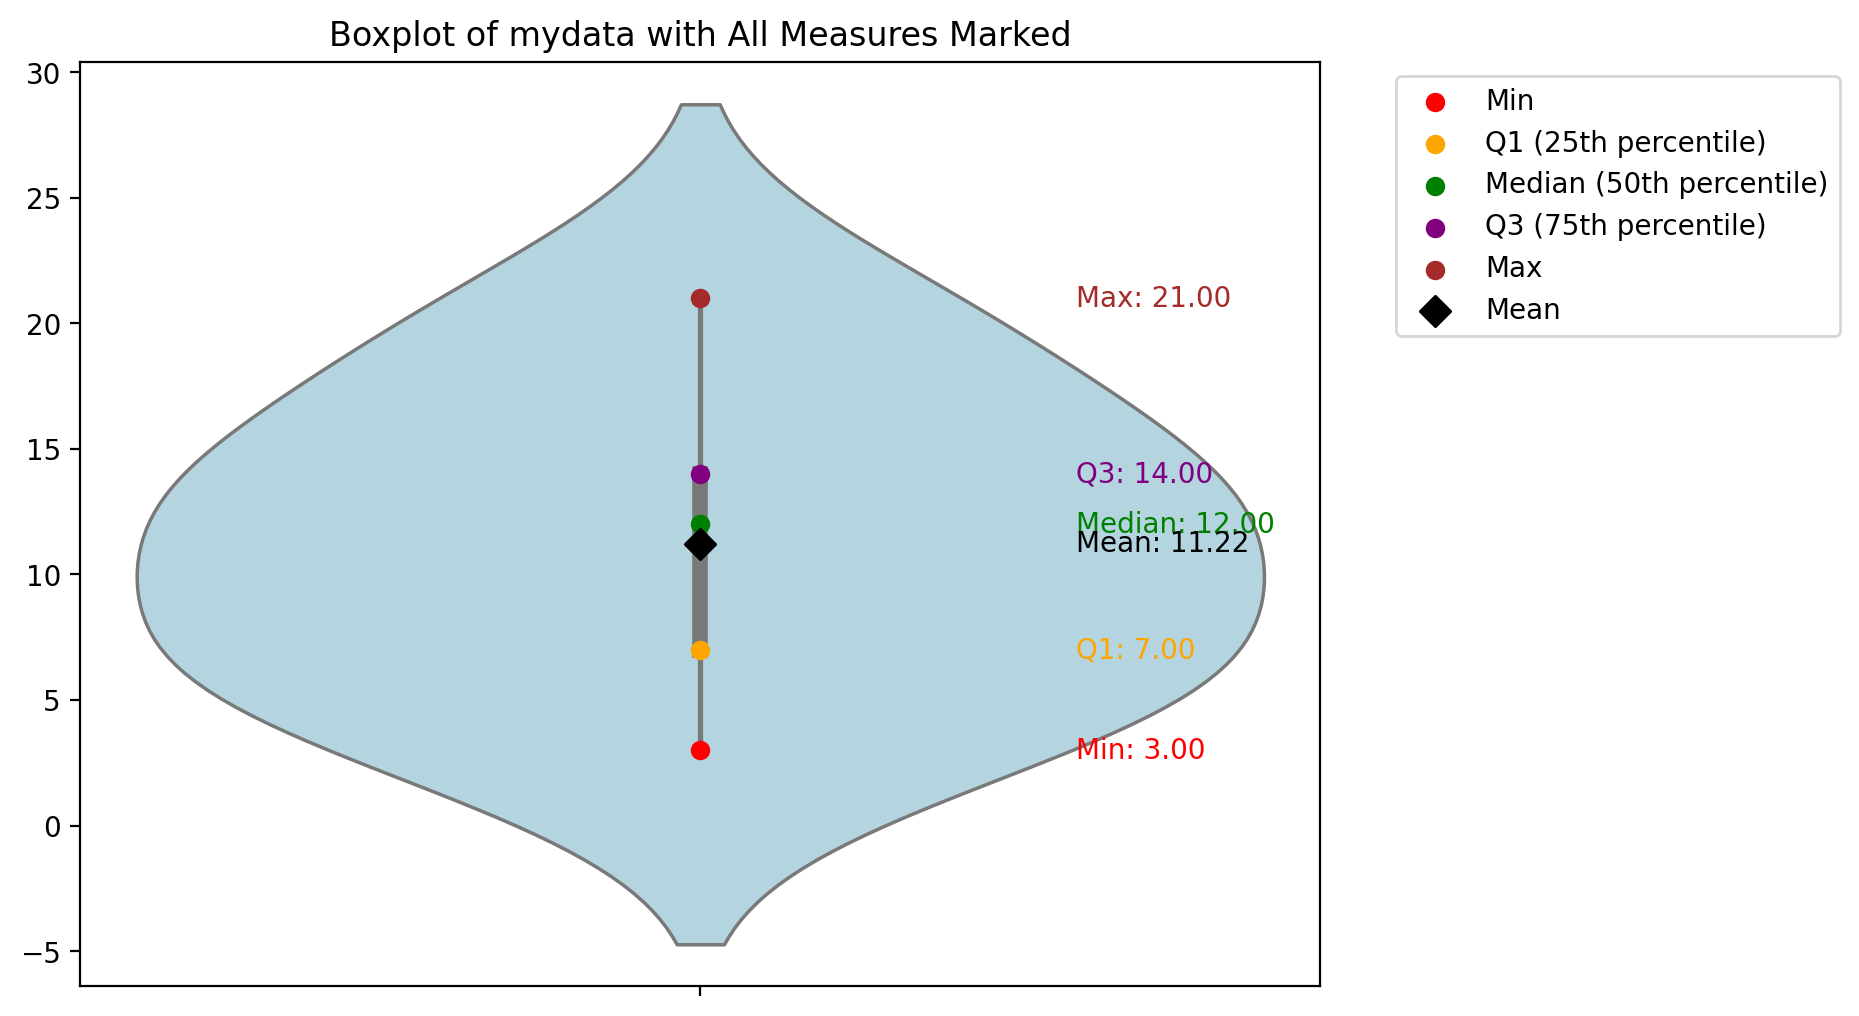
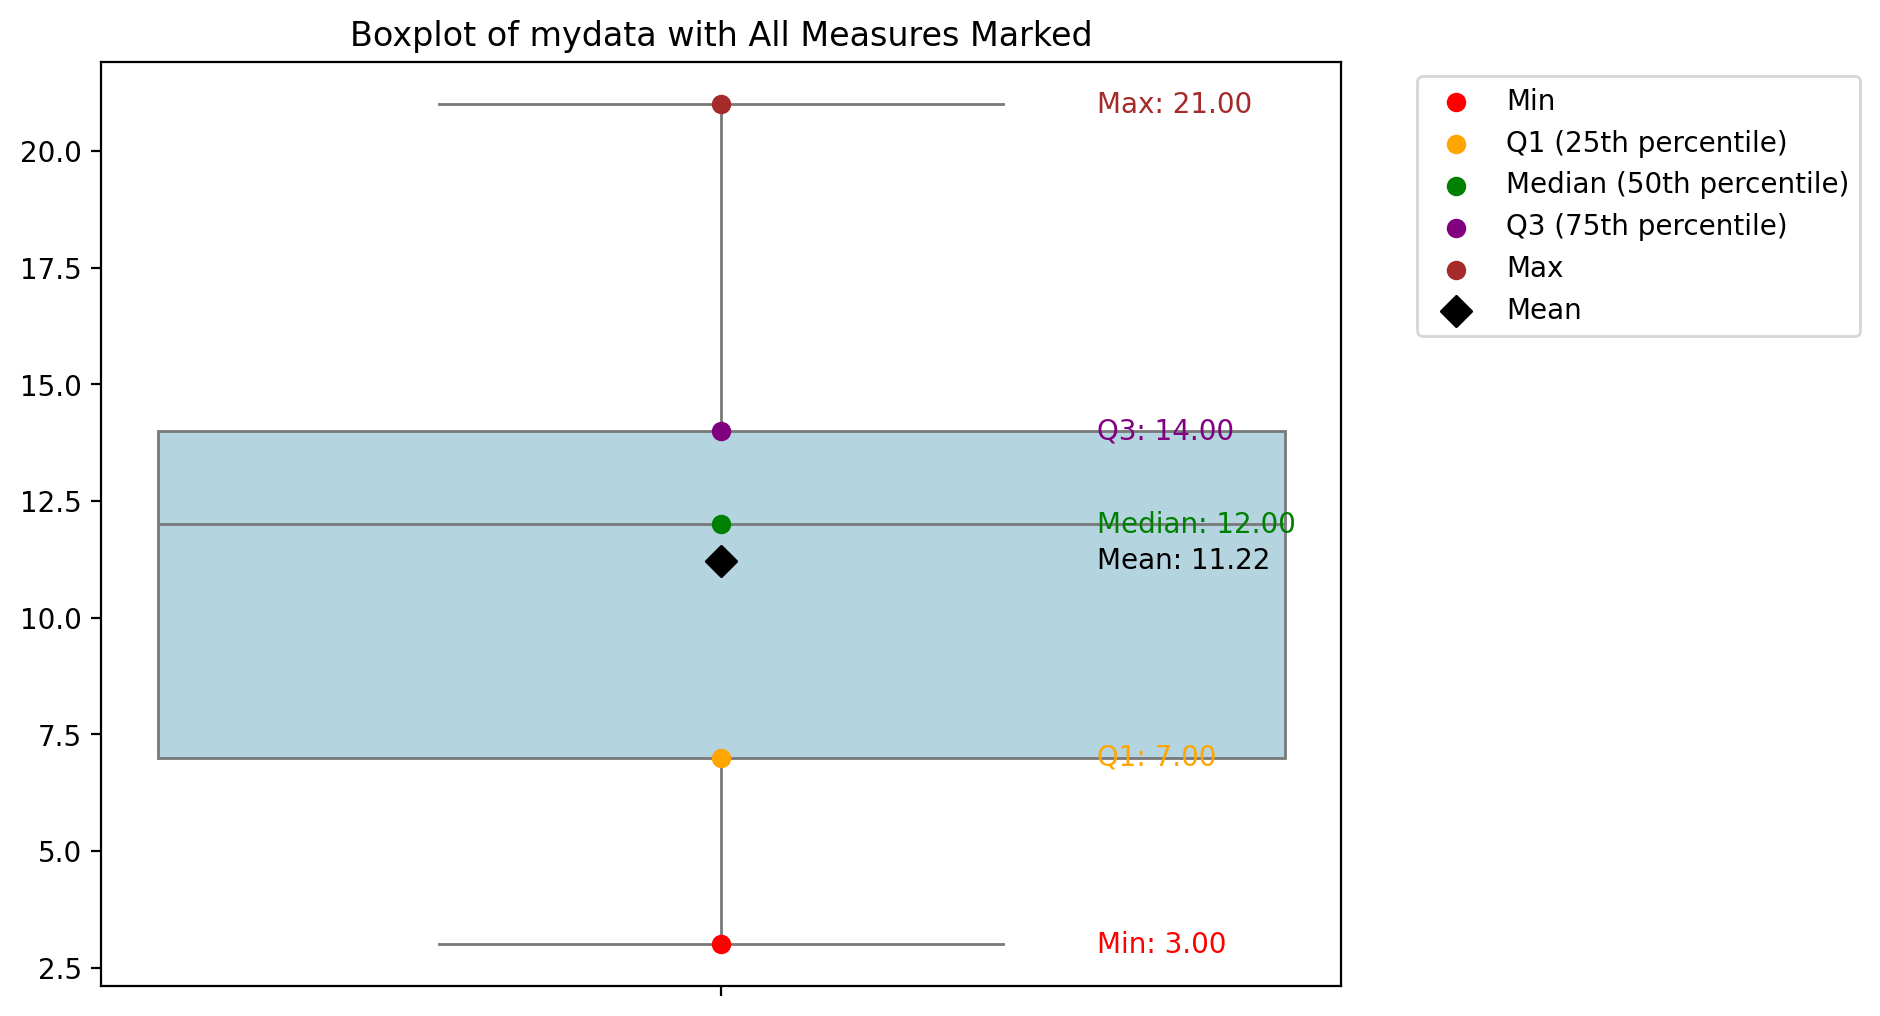
new report

diff --git a/Task4/Report4.md b/Task4/Report4.md
@@ -786,7 +786,7 @@ print(f"P95 (95%): {p95}")
 ```python
 # Create boxplot
 fig, ax = plt.subplots(figsize=(8, 6))
-sns.violinplot(data=mydata, ax=ax, color='lightblue', width=0.3)
+sns.boxplot(data=mydata, ax=ax, color='lightblue', width=0.3)
 
 # Calculate statistics
 minimum = np.min(mydata)
@@ -828,6 +828,46 @@ Try to change the boxplot into the violin plot (or add it).
 
 Looking at the aforementioned quantile results and the box plot, try to interpret these measures. 
 
+
+```python
+# Create violin plot
+fig, ax = plt.subplots(figsize=(8, 6))
+sns.violinplot(data=mydata, ax=ax, color='lightblue', width=0.3)
+
+# Calculate statistics
+minimum = np.min(mydata)
+q1 = np.percentile(mydata, 25)
+median = np.median(mydata)
+q3 = np.percentile(mydata, 75)
+maximum = np.max(mydata)
+mean = np.mean(mydata)
+
+ax.scatter(0, minimum, color='red', label='Min', zorder=5)
+ax.scatter(0, q1, color='orange', label='Q1 (25th percentile)', zorder=5)
+ax.scatter(0, median, color='green', label='Median (50th percentile)', zorder=5)
+ax.scatter(0, q3, color='purple', label='Q3 (75th percentile)', zorder=5)
+ax.scatter(0, maximum, color='brown', label='Max', zorder=5)
+ax.scatter(0, mean, color='black', marker='D', s=60, label='Mean', zorder=5)
+
+for value, name, color in zip(
+    [minimum, q1, median, mean, q3, maximum],
+    ['Min', 'Q1', 'Median', 'Mean', 'Q3', 'Max'],
+    ['red', 'orange', 'green', 'black', 'purple', 'brown']
+):
+    ax.text(0.1, value, f'{name}: {value:.2f}', verticalalignment='center', color=color)
+
+
+ax.set_title('Boxplot of mydata with All Measures Marked')
+ax.legend(bbox_to_anchor=(1.05, 1), loc='upper left')
+plt.show()
+```
+
+
+    
+![png](Exercise8_files/Exercise8_55_0.png)
+    
+
+
 ## Variability
 
 > **Variability** (or **dispersion**) refers to the degree to which values in a distribution are *dispersed*, i.e., differ from each other.
@@ -853,7 +893,7 @@ axes[1].set_title("Higher variance");
 
 
     
-![png](Exercise8_files/Exercise8_57_0.png)
+![png](Exercise8_files/Exercise8_58_0.png)
     
 
 
@@ -879,7 +919,7 @@ d1.max() - d1.min()
 
 
 
-    np.float64(6.478645890748602)
+    np.float64(6.699407589039033)
 
 
 
@@ -891,7 +931,7 @@ d2.max() - d2.min()
 
 
 
-    np.float64(27.74135565039261)
+    np.float64(34.187205023320146)
 
 
 
@@ -916,7 +956,7 @@ q3 - q1
 
 
 
-    np.float64(1.2519878907327113)
+    np.float64(1.3666644747243302)
 
 
 
@@ -930,7 +970,7 @@ q3 - q1
 
 
 
-    np.float64(6.942051408728109)
+    np.float64(6.935318976308852)
 
 
 
@@ -1012,7 +1052,7 @@ d1.std()
 
 
 
-    np.float64(0.9586879460393224)
+    np.float64(1.0332935499506553)
 
 
 
@@ -1025,7 +1065,7 @@ d1.std(ddof = 1)
 
 
 
-    np.float64(0.9591676498201742)
+    np.float64(1.0338105845338987)
 
 
 
@@ -1060,6 +1100,31 @@ print(f"CV (scipy): {cv_sample:.2f}%")
     Sample variance (scipy): 4.571428571428571
     Sample sd (scipy): 2.138089935299395
     CV (scipy): 42.76%
+
+
+
+```python
+# Calculate the Coefficient of Variation (CV) for Legendary and Non-Legendary Pokémon
+
+# Filter numerical columns
+numerical_columns = df_pokemon.select_dtypes(include='number')
+
+# Group by 'Legendary' and calculate mean and standard deviation
+grouped_stats = numerical_columns.groupby(df_pokemon['Legendary']).agg(['mean', 'std'])
+
+# Calculate CV (Coefficient of Variation) as (std / mean) * 100
+grouped_stats['CV'] = (grouped_stats['Attack']['std'] / grouped_stats['Attack']['mean']) * 100
+
+# Display the CV for Legendary and Non-Legendary Pokémon
+print("Coefficient of Variation (CV) for Legendary and Non-Legendary Pokémon:")
+print(grouped_stats['CV'])
+```
+
+    Coefficient of Variation (CV) for Legendary and Non-Legendary Pokémon:
+    Legendary
+    False    40.293907
+    True     26.010317
+    Name: CV, dtype: float64
 
 
 ## Measures of the shape of the distribution
@@ -1136,16 +1201,65 @@ print(f"Skewness of X: {skewness:.4f}")
 
 Try to interpret the above-mentioned result and calculate example slant ratios for several groups of Pokémon.
 
+### The skewness result indicates the asymmetry of the data distribution.
+
+#### Positive Skewness: If a Pokémon type has a positive skewness, it means that most Pokémon in this group have lower attack values, but there are a few with very high attack values (long tail on the right).
+
+#### Negative Skewness: If a Pokémon type has a negative skewness, it means that most Pokémon in this group have higher attack values, but there are a few with very low attack values (long tail on the left).
+
+#### Near Zero Skewness: If the skewness is close to zero, the attack values for this Pokémon type are symmetrically distributed.
+
+
+##### For example, we can calculate the skewness for Pokémon groups based on their 'Attack' or 'HP' stats. This will help us understand whether certain Pokémon types have a tendency for higher or lower values in these attributes.
+
 
 ```python
-# The skewness result indicates the asymmetry of the data distribution.
-# A positive skewness value suggests that the data has a longer tail on the right side (right-skewed).
-# A negative skewness value suggests a longer tail on the left side (left-skewed).
-# A skewness value close to 0 indicates a symmetric distribution.
+# Group Pokémon by 'Type 1' and calculate skewness for 'Attack'
+attack_skewness = df_pokemon.groupby('Type 1')['Attack'].apply(skew)
 
-# For example, we can calculate the skewness for Pokémon groups based on their 'Attack' or 'HP' stats.
-# This will help us understand whether certain Pokémon types have a tendency for higher or lower values in these attributes.
+# Display skewness for each Pokémon type
+print("Skewness of 'Attack' for each Pokémon type:")
+print(attack_skewness)
+
+# Plot skewness
+plt.figure(figsize=(12, 6))
+attack_skewness.plot(kind='bar', color='skyblue')
+plt.title("Skewness of 'Attack' for each Pokémon type")
+plt.xlabel("Pokémon Type")
+plt.ylabel("Skewness")
+plt.xticks(rotation=45)
+plt.tight_layout()
+plt.show()
 ```
+
+    Skewness of 'Attack' for each Pokémon type:
+    Type 1
+    Bug         0.797914
+    Dark        0.538188
+    Dragon      0.189216
+    Electric    0.600140
+    Fairy       0.959808
+    Fighting   -0.403065
+    Fire        0.340286
+    Flying     -0.432799
+    Ghost       0.871959
+    Grass       0.159399
+    Ground      0.571162
+    Ice         0.593358
+    Normal      0.362852
+    Poison     -0.005004
+    Psychic     1.128261
+    Rock        0.247232
+    Steel       0.053388
+    Water       0.439261
+    Name: Attack, dtype: float64
+
+
+
+    
+![png](Exercise8_files/Exercise8_85_1.png)
+    
+
 
 ### Interquartile Skewness
 
